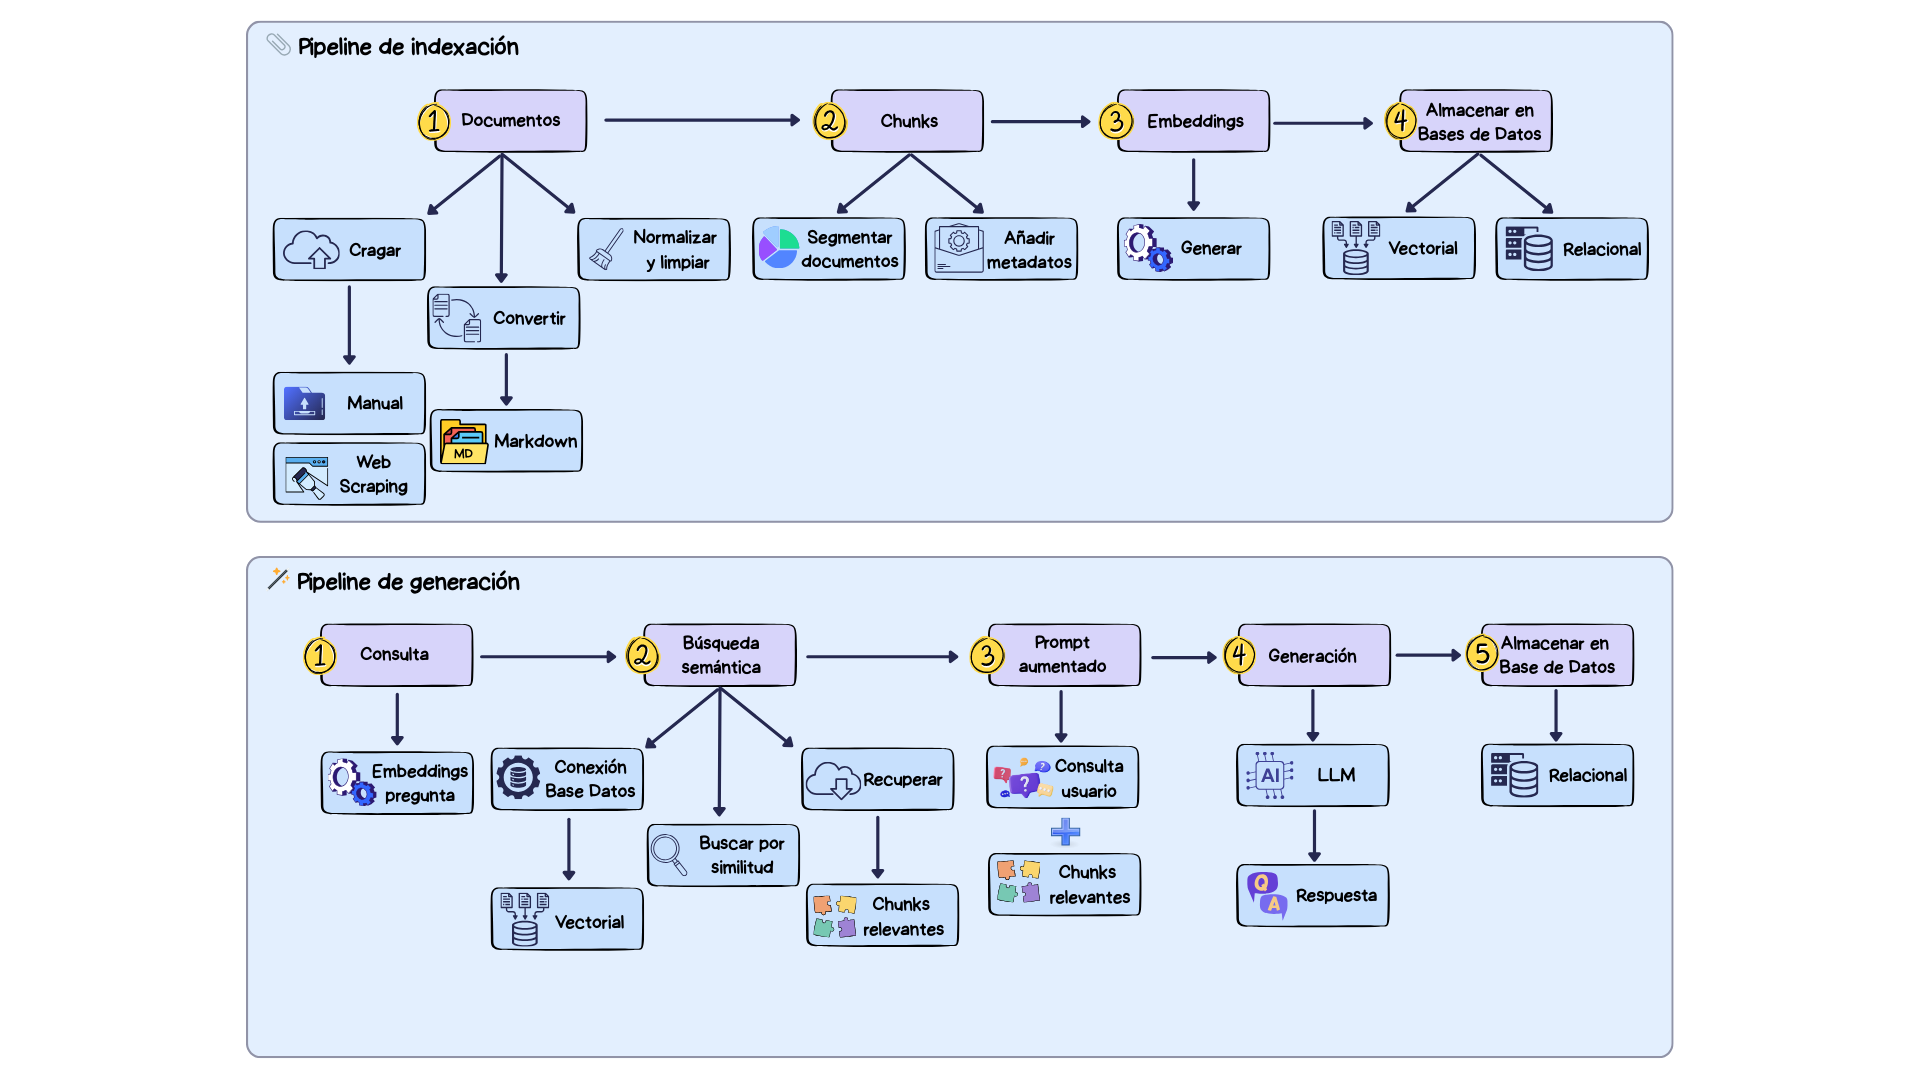
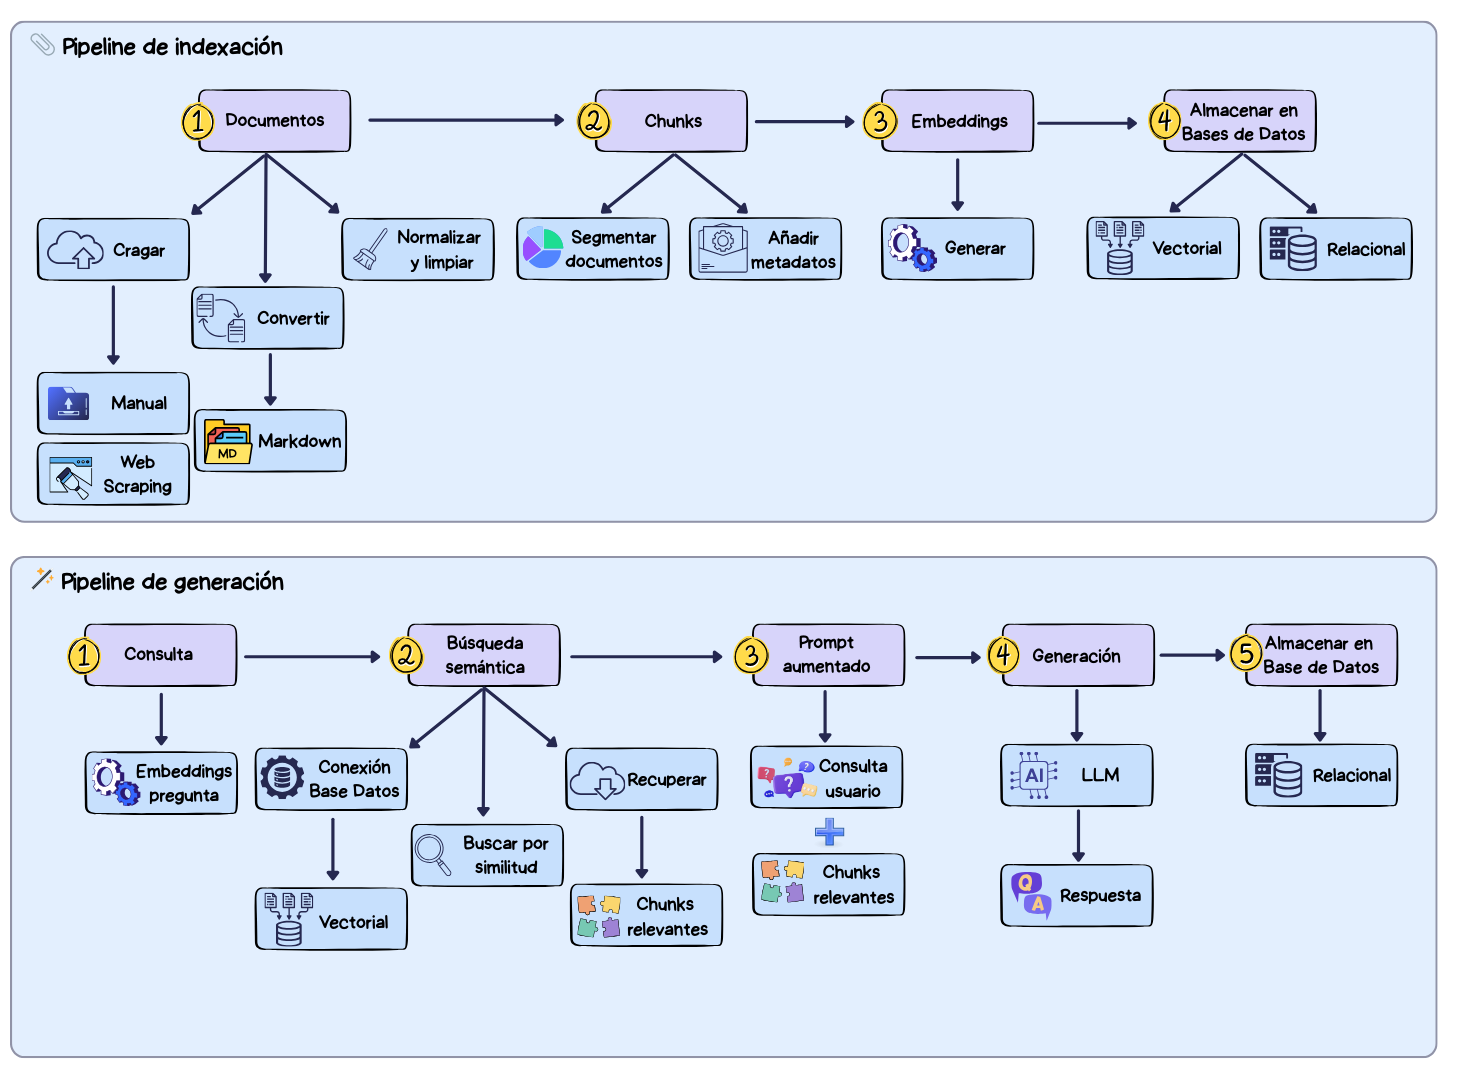
merge con correciones

diff --git a/docs/LaTeX/anexos.tex b/docs/LaTeX/anexos.tex
@@ -11,6 +11,7 @@
 \usepackage{pdflscape}
 \usepackage{textcomp}
 \usepackage{xparse}
+\usepackage{svg}
 
 
 %Cabeceras
@@ -67,15 +68,9 @@
 }
 
 % Marcado semántico
-\newcommand{\file}[1]{
-	\texttt{#1}
-}
-\newcommand{\ext}[1]{
-	\texttt{#1}
-}
-\newcommand{
-	\code}[1]{\texttt{#1}
-}
+\newcommand{\file}[1]{\texttt{#1}}
+\newcommand{\ext}[1]{\texttt{#1}}
+\newcommand{	\code}[1]{\texttt{#1}}
 
 %Palabras en ingles
 \newcommand{\eng}[1]{\textit{#1}}
@@ -106,6 +101,14 @@
 	\begin{figure}
 		\centering
 		\includegraphics[width=#3\textwidth]{#1}
+		\caption{#2}\label{fig:#1}
+	\end{figure}
+}
+
+\newcommand{\imagendiagramsvg}[3]{
+	\begin{figure}
+		\centering
+		\includesvg[width=#3\textwidth]{#1}
 		\caption{#2}\label{fig:#1}
 	\end{figure}
 }

diff --git a/docs/LaTeX/tex/C_Diseno.tex b/docs/LaTeX/tex/C_Diseno.tex
@@ -7,12 +7,12 @@
 Para llevar a cabo la aplicación se han definido las siguientes entidades:
 \begin{itemize}
 \tightlist
-	\item Usuario: esta entidad representa a la persona que usa la aplicación. Distingue entre usuario normal y administrador, al cual le permite realizar la gestión de documentos y usuarios. Esta entidad maneja un identificador (id) que es la clave primaria, un nombre, un email que debe ser único, una contraseña que se almacena encriptada, el último inicio de sesión y el rol.
+	\item Usuario: esta entidad representa a la persona que usa la aplicación. Distingue entre usuario normal y administrador, al cual se le permite realizar la gestión de documentos y usuarios. Esta entidad maneja un identificador (id) que es la clave primaria, un nombre, un email que debe ser único, una contraseña que se almacena encriptada, el último inicio de sesión y el rol.
 	\item Consulta: esta entidad guarda las preguntas que realizan los usuarios, así como las respuestas que da el \eng{LLM} alimentado por el \textit{RAG}. Es la base para el historial de consultas donde se van a listar y borrar. Esta entidad maneja un identificador (id) que es la clave primaria, el identificador del usuario que realiza la consulta, la pregunta del usuario, la respuesta, los fragmentos utilizados, el tiempo de respuesta, y la fecha en la que se preguntó al modelo.
 	\item Documento: esta entidad representa un PDF cargado en la aplicación. Maneja un identificador (id) como clave primaria, el nombre del fichero, el tamaño, la fecha de modificación, el número de \eng{chunks} en la base de datos vectorial, el \textit{hash} del documento y el estado del documento (cargado, procesado, indexado, fallido). 
 	\item \eng{Chunk}: esta entidad representa cada trozo de texto en el que se dividen los documentos para poder generar los \textit{embeddings}. Maneja el texto que forma al propio \textit{chunk}, el \textit{embedding} y los metadatos del \textit{chunk} (nombre del archivo, título y posición dentro del documento).
 	\item \eng{Embedding}: esta entidad se corresponde con la representación vectorial utilizada para la base de datos vectorial. Va a permitir recuperar \textit{chunks} por similitud. La entidad maneja un vector asociado al \textit{chunk}.
-	\item \eng{ConsultaChunk}: esta entidad modela la relación entre las consultas y los \textit{chunks} permitiendo que una consulta tenga varios \textit{chunk} y que un \textit{chunk} pueda servir para varias consultas. La entidad maneja el identificador de la consulta, el identificador del \textit{chunk}, la similitud con la consulta del usuario y el \textit{ranking}. El \eng{ranking} hace referencia a la relevancia que tiene un \eng{chunk} entre los recuperados para aumentar el \eng{prompt} del \eng{LLM}. La posición del \eng{chunk} en el \eng{ranking} se determina ordenandolos descendentemente según su similitud.
+	\item \eng{ConsultaChunk}: esta entidad modela la relación entre las consultas y los \textit{chunks} permitiendo que una consulta tenga varios \textit{chunk} y que un \textit{chunk} pueda servir para varias consultas. La entidad maneja el identificador de la consulta, el identificador del \textit{chunk}, la similitud con la consulta del usuario y el \textit{ranking}. El \eng{ranking} hace referencia a la relevancia que tiene un \eng{chunk} entre los recuperados para aumentar el \eng{prompt} del \eng{LLM}. La posición del \eng{chunk} en el \eng{ranking} se determina ordenándolos descendentemente según su similitud.
 \end{itemize}
 
 Las relaciones entre las entidades son:
@@ -28,10 +28,9 @@ Las relaciones entre las entidades son:
 	\item Un \eng{chunk} puede ser usado por cero o varias consultas.
 \end{itemize}
 
-El diagrama entidad relación se muestra en esta imagen ~\ref{fig:Diagramas/Entidad_Relacion}
+El diagrama entidad relación se muestra en la imagen ~\ref{fig:Diagramas/Entidad_Relacion} y el diagrama relacional se muestra en la imagen ~\ref{fig:Diagramas/Relacional}
+ 
 \imagendiagram{Diagramas/Entidad_Relacion}{Diagrama Entidad/Relación.}{1.2}
-
-El diagrama relacional se muestra en esta imagen ~\ref{fig:Diagramas/Relacional}
 \imagendiagram{Diagramas/Relacional}{Diagrama relacional.}{1.1}
 
 
@@ -59,14 +58,14 @@ Gracias a esta separación se garantiza la seguridad ya que no se expone directa
 
 La comunicación entre componentes (ver imagen ~\ref{fig:Arquitectura/ComunicacionArquitectura}) se realiza principalmente dentro de al red interna de \file{Docker-compose}, donde los servicios se resuelven entre sí mediante el nombre de servicio,es decir, el DNS interno, y se conectan a través de los puertos expuestos internamente. El acceso desde el exterior se gestiona usando \eng{Nginx}, que es el único componenete que publica puertos hacia internet (el puerto 80 para el protocolo HTTP y el 443 para el HTTPS). \eng{Nginx} actúa como \eng {proxy} inverso y punto de terminación TLS~\cite{diseño:TLS} (TLS es un protocolo que asegura la privacidad y la seguridad de los datos). Recibe las peticiones que hacen los usuarios a la \eng{web} \file{pythia.es} y las reenvía por HTTP interno al servicio \eng{web} en \file{web:5000} que se corresponde con la aplicación \eng{Flask} servida con \eng{Gunicorn}. Desde la aplicación, las comunicaciones con los servicios de datos se realizan dentro del entorno \eng{Docker}. La conexión con la base de datos relacional \eng{PostgreSQL} se gestiona con una conexión TCP a \file{db:5432}. La conexión con la base de datos vectorial \eng{Qdrant}, para la recuperación semántica, se realiza mediante conexión HTTP por el puerto \file{qdrant:6333}. Para generar las respuestas se invoca el servicio \eng{Ollama} por HTTP en \file{ollama:11434}. \eng{Ollama} puede ser accesible desde fuera del \eng{host} gracias al mapeo de puertos \file{11435:11434}. Por último, el contenedor \eng{ollama-init} se comunica con \eng{Ollama} de forma interna durante el arranque para descargar el modelo y dejarlo disponible antes de su uso. En el diagrama~\ref{fig:Arquitectura/Peticiones} se puede observar como atiende el sistema las peticiones de los usuarios.
 
-\imagendiagram{Arquitectura/ComunicacionArquitectura}{Diagrama de la comunicación entre los principales componentes del sistema.}{1.1}
+\imagendiagram{Arquitectura/ComunicacionArquitectura}{Diagrama de la comunicación entre los principales componentes del sistema.}{1.2}
 
-\imagendiagram{Arquitectura/Peticiones}{Diagrama de la gestión de peticiones del sistema.}{1.1}
+\imagendiagram{Arquitectura/Peticiones}{Diagrama de la gestión de peticiones del sistema.}{1.2}
 
 \subsection{Arquitectura cliente-servidor multicapa}
 Desde el punto de vista lógico el sistema se estructura siguiendo una arquitectura cliente-servidor multicapa~\cite{diseño:tresNiveles}, organizada en tres niveles claramente diferenciados. Estos niveles se corresponden con la capa de presentación, la capa de aplicación y la capa de persistencia y servicios externos (ver arquitectura en la imagen~\ref{fig:Arquitectura/ArquitecturaLogica}.
 
-\imagendiagram{Arquitectura/ArquitecturaLogica}{Arquitectura cliente-servidor multicapa.}{1.1}
+\imagendiagram{Arquitectura/ArquitecturaLogica}{Arquitectura cliente-servidor multicapa.}{1.2}
 
 \begin{itemize}
 \tightlist
@@ -80,7 +79,7 @@ La aplicación \eng{web} sigue una arquitectura MVC (\eng{Model-View-Controller}
 
 El modelo vista intención (MVC)~\cite{diseño:MVC} es un patrón arquitectónico de software que separa el código en tres capas independientes. La capa modelo donde se incluye la lógica y los datos , la capa vista donde se implementa la interfaz de usuario (\eng{frontend}) y la capa controlador que actúa de intermediario entre las acciones del usuario en las vistas y la lógica de la aplicación (rutas). En esta aplicación se implementa adaptado al ecosistema \eng{Flask} (ver diagrama~\ref{fig:Arquitectura/ModeloVistaControlador}).
 
-\imagendiagram{Arquitectura/ModeloVistaControlador}{Diagrama de la arquitectura Modelo-Vista-Controlador (MVC) del sistema.}{1.1}
+\imagendiagram{Arquitectura/ModeloVistaControlador}{Diagrama de la arquitectura Modelo-Vista-Controlador (MVC) del sistema.}{1.2}
 
 \begin{itemize}
 \tightlist
@@ -94,7 +93,7 @@ Con estas capas se mantiene el desacoplamiento de la aplicación \eng{web}, haci
 \subsection{Arquitectura del sistema \eng{RAG}}
 El sistema \eng{RAG} se integra dentro de la capa de aplicación. Es el encargado de integrar en el sistema la generación de respuestas. u diseño se basa en la combinación de recuperación semántica sobre una base de datos vectorial y generación de texto mediante un modelo de lenguaje (\eng{LLM}). A nivel de arquitectura se divide en dos \eng{pipelines}~\cite{book:RAG_SimpleGuide}, el de indexación y el de generación (ver diagrama~\ref{fig:Arquitectura/ArquitecturaRAG}).
 
-\imagendiagram{Arquitectura/ArquitecturaRAG}{Diagrama de la arquitectura del modelo \eng{RAG}.}{1.1}
+\imagendiagram{Arquitectura/ArquitecturaRAG}{Diagrama de la arquitectura del modelo \eng{RAG}.}{1.2}
 
 El \textbf{\eng{pipeline} de indexación} se ejecuta cuando se cargan los documentos en la aplicación, ya bien sea de manera manual o mediante \eng{web scraping}. Por cada documento se va a llevar a cabo una conversión a \file{Markdown} para que todos tengan una estructura similar que el \eng{LLM} entienda fácilmente. De estos documentos se extrae, limpia y normaliza su texto, posteriormente se segmenta en \eng{chunks} con solapamiento y se generar sus \eng{embeddings}. Los cuales se van a almacenar en la base de datos vectorial (\eng{Qdrant}). Este proceso se ejecuta de forma asíncrona para evitar bloquear la interfaz \eng{web}. Cuando acaba la indexación de los documentos se envía un correo electrónico al usuario parta notificárselo.
 

diff --git a/docs/LaTeX/tex/A_Plan_proyecto.tex b/docs/LaTeX/tex/A_Plan_proyecto.tex
@@ -482,7 +482,7 @@ El \eng{burndown} de este \eng{sprint} se ilustra en la figura~\ref{fig:Burndown
 \subsection{\eng{Sprint} 23 (26/03/2026 -- 09/04/2026)}
 
 \section{Estudio de viabilidad}
-El estudio de viabilidad es un análisis detallado que se realiza antes de iniciar un proyecto. Sirve para determinar la rentabilidad de ese proyecto, es decir, si se pude hacer realidad. Para ello se analiza si es económicamente rentable (sección~\hyperref[viabilidad_economica]{A.3.1}) y legalmente viable (sección~\hyperref[viabilidad_legal]{A.3.2}). 
+El estudio de viabilidad es un análisis detallado que se realiza antes de iniciar un proyecto. Sirve para determinar la rentabilidad de ese proyecto, es decir, si se pude hacer realidad. Para ello se analiza si es económicamente rentable (ver sección~\hyperref[viabilidad_economica]{A.3.1}) y legalmente viable (ver sección~\hyperref[viabilidad_legal]{A.3.2}). 
 
 \subsection{Viabilidad económica}\label{viabilidad_economica}
 Para analizar la viabilidad económica se ha seguido el coste total de propiedad (TCO)~\cite{book:TCO_costs}. El TCO consiste en identificar y estimar todos los costes asociados al ciclo de vida de un producto tecnológico, no solo los costes directos de su adquisición, sino también los derivados de su operación, mantenimiento y uso a lo largo del tiempo. De esta forma, se obtiene una visión global y realista del impacto económico del sistema. Los costes considerados vienen recogidos en la tabla~\ref{tabla:explicacion_TCO}.
@@ -490,8 +490,8 @@ Para analizar la viabilidad económica se ha seguido el coste total de propiedad
 \begin{table}[h]
 	\centering
 	\begin{tabularx}{\linewidth}{
-    		>{\raggedright\arraybackslash}p{0.46\linewidth}
-    		>{\raggedleft\arraybackslash}p{0.46\linewidth}}
+    		>{\raggedright\arraybackslash}p{0.26\linewidth}
+    		>{\raggedright\arraybackslash}p{0.66\linewidth}}
 		\toprule
 		\textbf{Componentes}    & \textbf{Componentes del costo}\\
 		\midrule
@@ -522,7 +522,7 @@ $$
 = 180\,\text{\texteuro}
 $$
 
-Además, se ha usado el servidor \myhref{https://www.gigabyte.com/es/Enterprise/Server-Motherboard/MW51-HP0-rev-1x}{\eng{beta}} de la universidad. Aunque el servidor no se ha considerado un gasto de \eng{hardware} ya que se ha considerado que se amortizaba en 5 años y ya tienen 9.
+Además, se ha usado el servidor \myhref{https://www.gigabyte.com/es/Enterprise/Server-Motherboard/MW51-HP0-rev-1x}{\eng{beta}} de la universidad. Aunque el servidor no se ha considerado un gasto de \eng{hardware} ya que se ha considerado que se amortizaba en 5 años y ya tiene 9.
 
 Respecto a la adquisición de \eng{software} la mayor parte del \eng{software} utilizado en el proyecto es de código abierto y de uso gratuito, como \eng{Python, Flask, Qdrant, PostgresSQL, Docker} o las librerías de \eng{Hugging Face}. Estas herramientas no implican un coste directo de licencia. Por lo cual el único gasto que debe considerarse en este apartado es la adquisición de la licencia de 
 \myhref{https://www.microsoft.com/es-es/d/windows-11-home/dg7gmgf0krt0/000P}{\eng{Windows}} con un coste de unos 145\,€. Se considera una amortización de 5 años, por lo cual para los 9 meses del proyecto:
@@ -571,7 +571,7 @@ $$
 = 720\,\text{\texteuro}
 $$
 
-Los costes totales del proyecto vienen desglosados en la siguiente tabla~\ref{tabla:coste}
+Los costes totales del proyecto vienen desglosados en la tabla~\ref{tabla:coste}.
 
 \begin{table}[h]
 	\centering